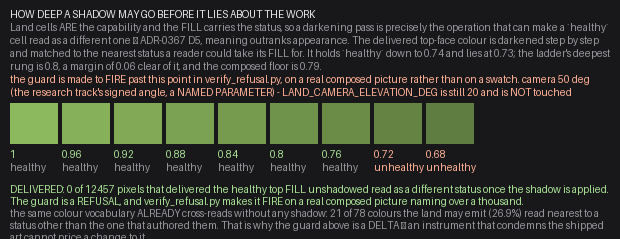
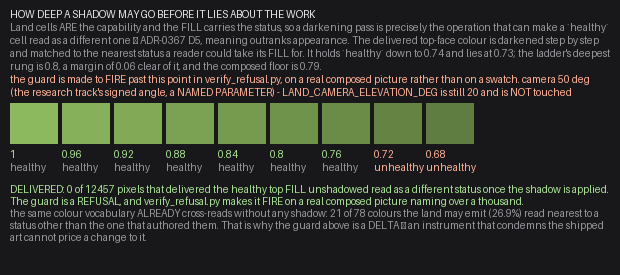
research(chapter2): stop the confusability sheet clipping its own last line
The footer explaining WHY the guard is a delta ran past the sheet and lost its
closing sentence. On a pass whose subject is appearance, a clipped caption in a
delivered picture is not a rounding error.

verify.py 42/42, determinism included.

diff --git a/docs/research/chapter2-one-surface-and-shadow-2026-08-17/compose_shadow.py b/docs/research/chapter2-one-surface-and-shadow-2026-08-17/compose_shadow.py
@@ -828,7 +828,7 @@ im4.save(os.path.join(OUT, "shadow-survives-the-snap.png"))
 SWZ, SWH = 52, 40
 rows = [r for r in DEPTH_ROWS if r["multiplier"] >= (FIRST_BAD - 0.06 if FIRST_BAD else 0.5)]
 rows = rows[::2] if len(rows) > 14 else rows
-im5, dr5, T5 = CH.sheet(max(SHEET_MIN_W, PAD * 2 + SWZ * len(rows)), HDR + SWH + 96,
+im5, dr5, T5 = CH.sheet(max(SHEET_MIN_W, PAD * 2 + SWZ * len(rows)), HDR + SWH + 132,
                         "HOW DEEP A SHADOW MAY GO BEFORE IT LIES ABOUT THE WORK",
                         f"Land cells ARE the capability and the FILL carries the status, so a "
                         f"darkening pass is precisely the operation that can make a `healthy` cell "
